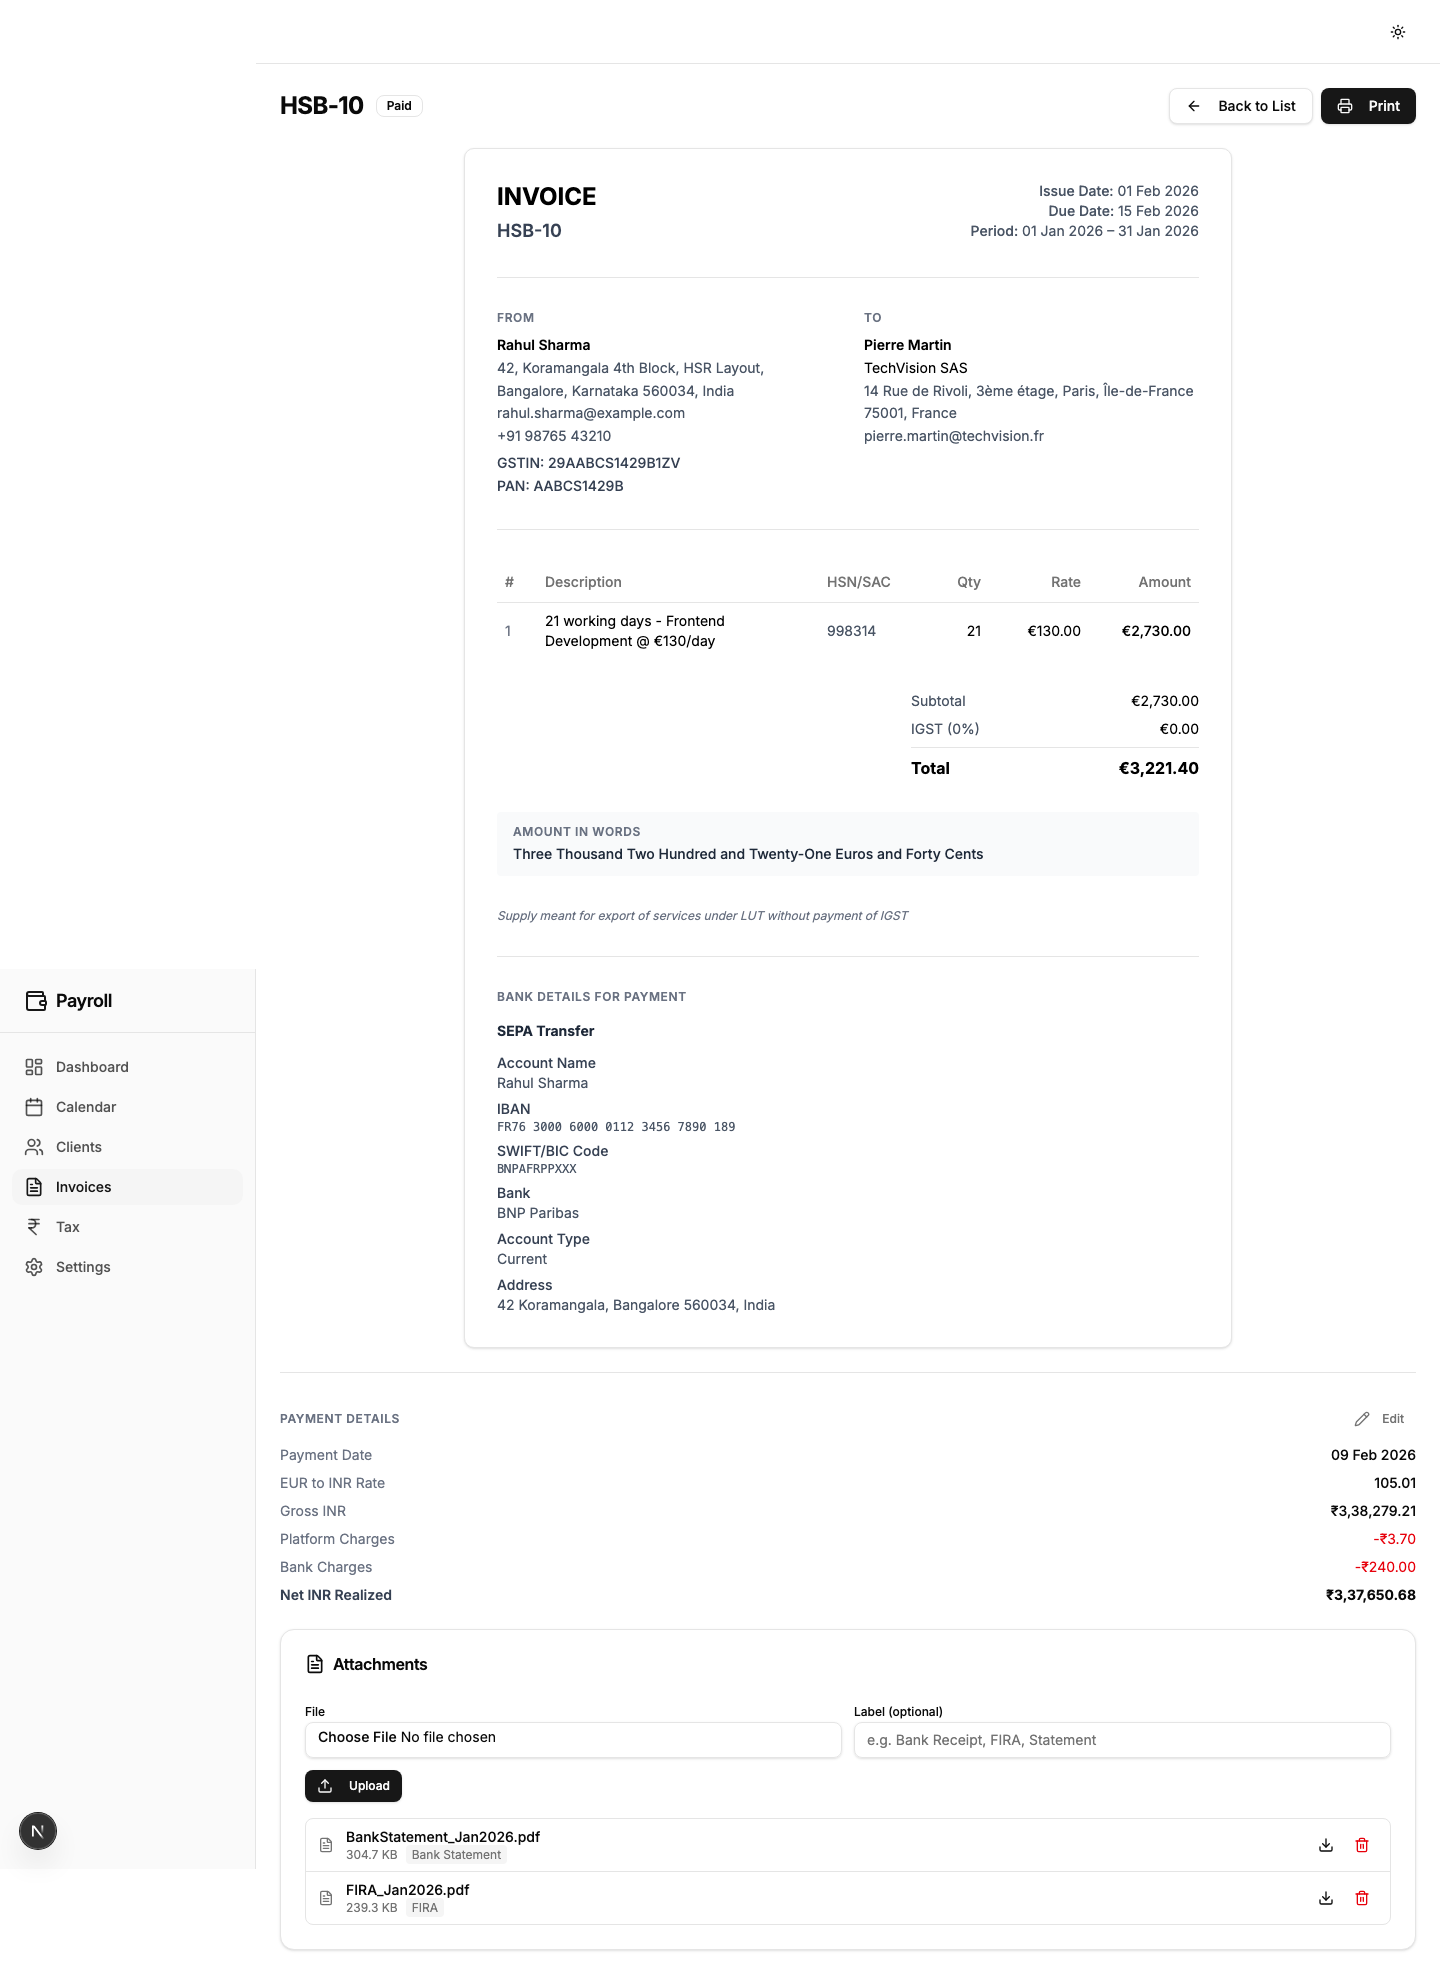
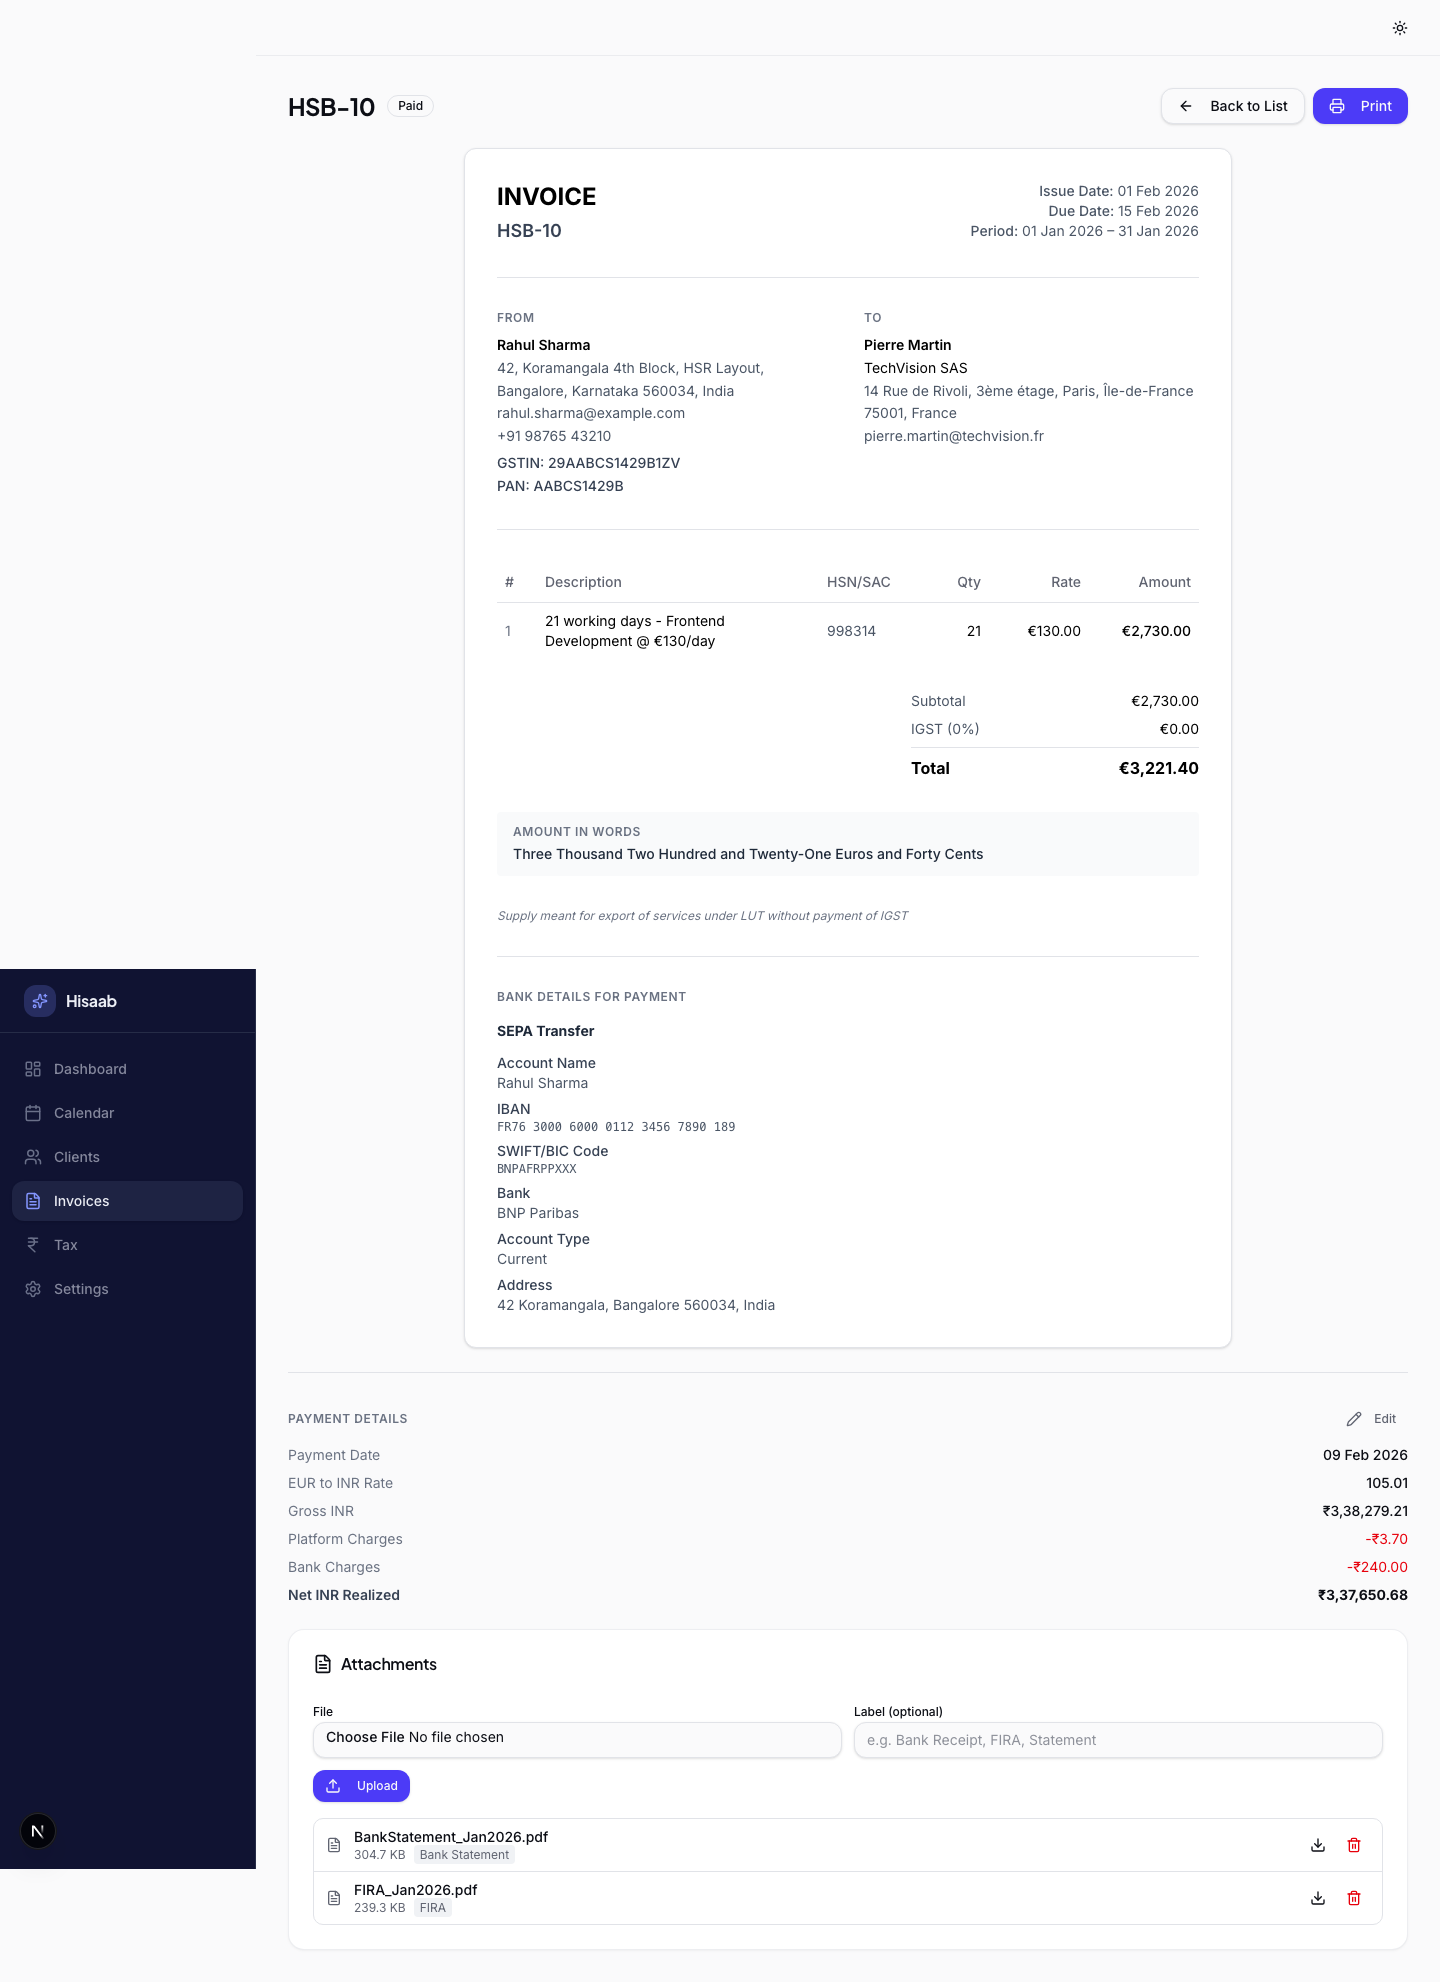
Add missing screenshots and refresh all existing ones
Add 4 new screenshots: calendar snapshot, add project dialog, new client
form, and tax payment dialog. Update take-screenshots.mjs to capture 22
views (up from 17) with graceful handling for the mark-as-paid dialog.
Sync update-readme.mjs with Docker/self-hosting sections from main.

diff --git a/README.md b/README.md
@@ -28,11 +28,20 @@ A freelancer payroll management app for tracking income, clients, work days, inv
 ### Calendar Day Entry
 ![Calendar Day Entry](docs/screenshots/calendar-day-entry.png)
 
+### Calendar Snapshot
+![Calendar Snapshot](docs/screenshots/calendar-snapshot.png)
+
 ### Client Management
 ![Client Management](docs/screenshots/clients.png)
 
 ### Client Detail
 ![Client Detail](docs/screenshots/client-detail.png)
+
+### Add Project
+![Add Project](docs/screenshots/client-add-project.png)
+
+### New Client Form
+![New Client Form](docs/screenshots/client-new.png)
 
 ### Invoices
 ![Invoices](docs/screenshots/invoices.png)
@@ -54,6 +63,9 @@ A freelancer payroll management app for tracking income, clients, work days, inv
 
 ### Tax Projection
 ![Tax Projection](docs/screenshots/tax-projection.png)
+
+### Tax Payment
+![Tax Payment](docs/screenshots/tax-payment.png)
 
 ### Settings Overview
 ![Settings Overview](docs/screenshots/settings.png)
